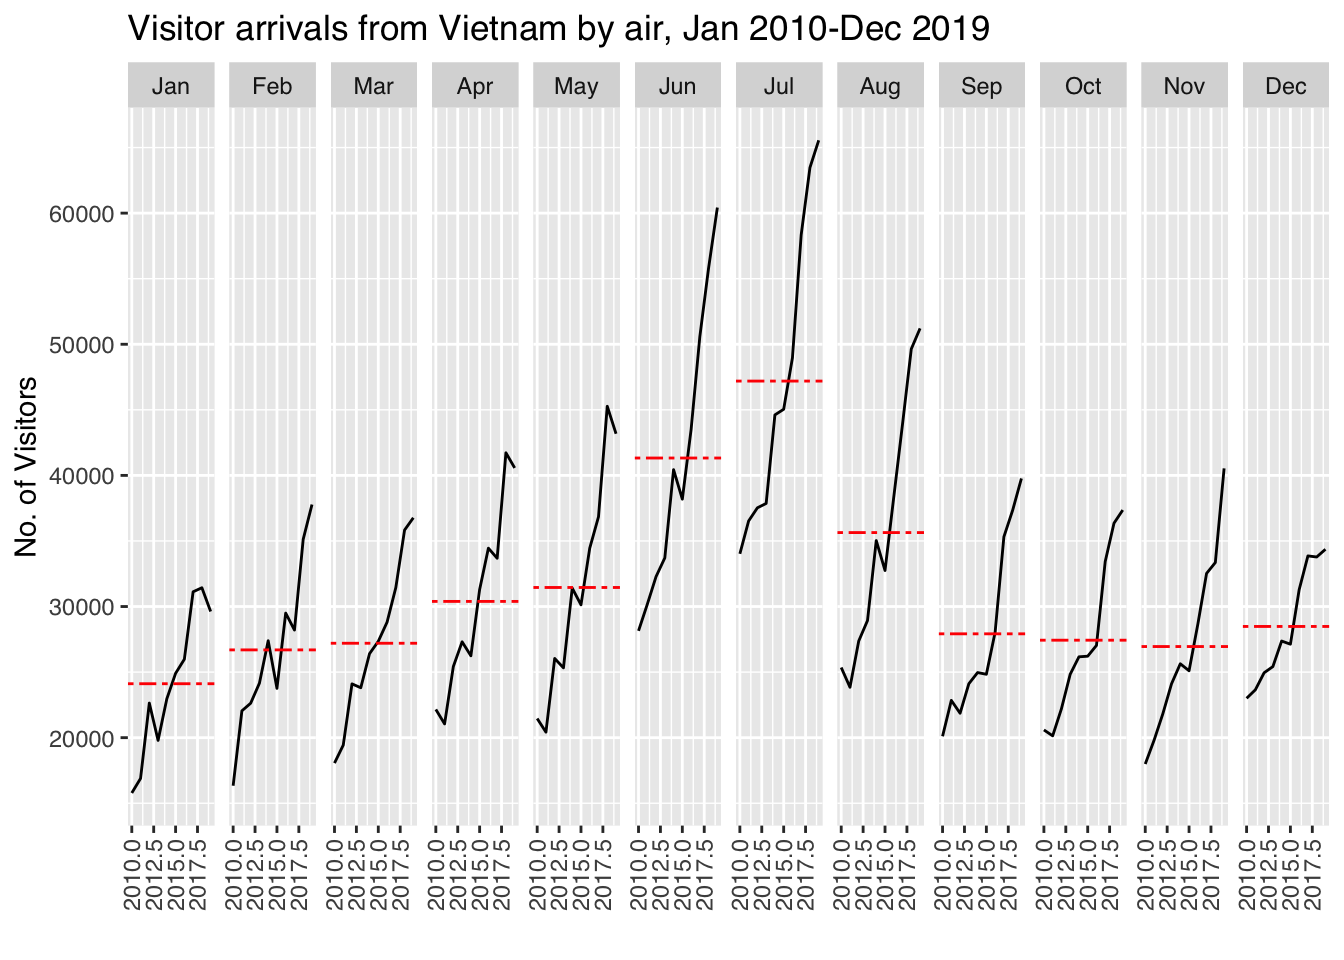
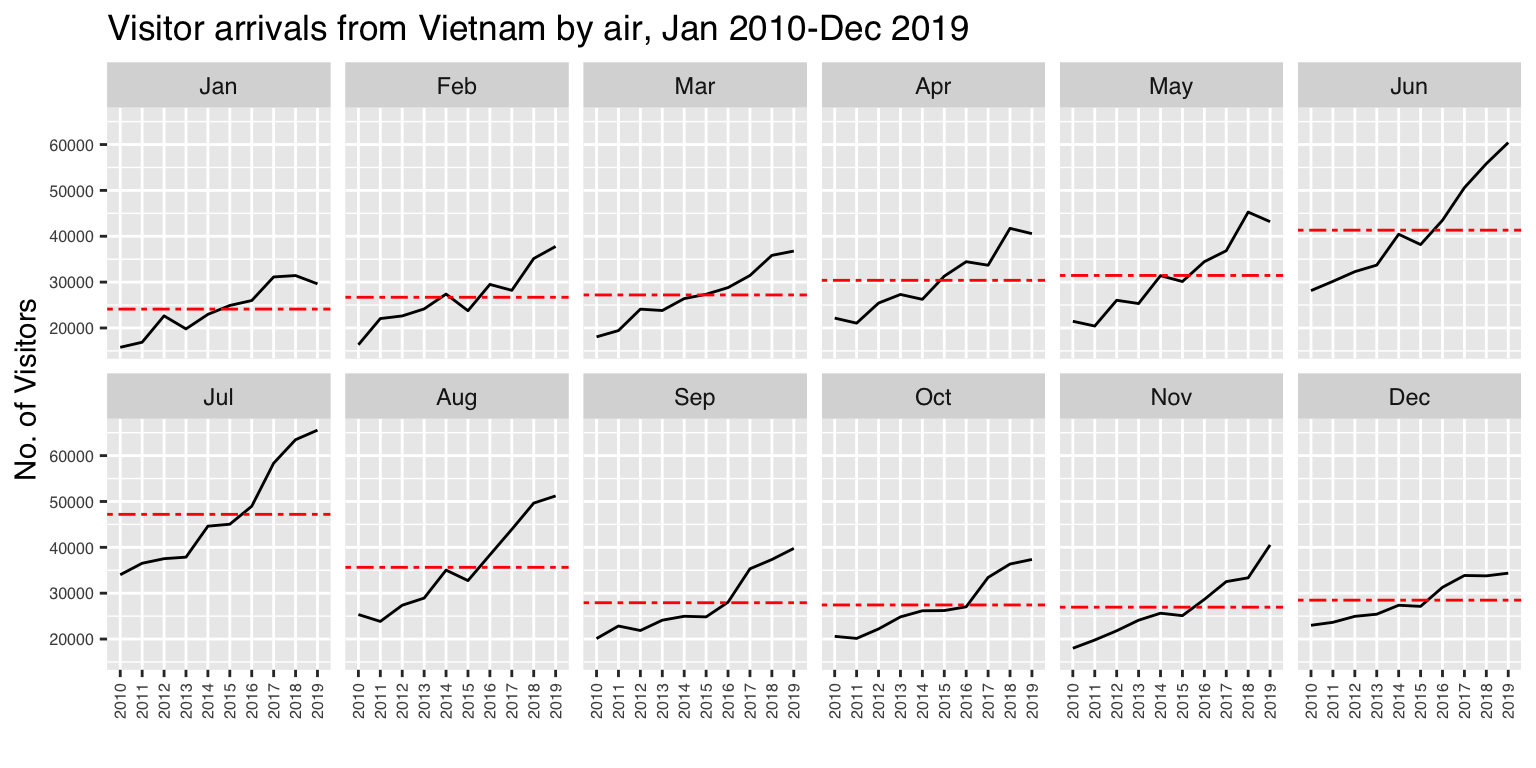
Commit after trying new dataset for HO_ex6

Changed region(s): [[0.0, 0.0, 1.0, 0.9688]]

diff --git a/_site/Hands-on_Ex/Hands-on_Ex06/hands-on_Ex06.html b/_site/Hands-on_Ex/Hands-on_Ex06/hands-on_Ex06.html
@@ -408,6 +408,7 @@ pre > code.sourceCode > span > a:first-child::before { text-decoration: underlin
   <li><a href="#step-1-data-import-1" id="toc-step-1-data-import-1" class="nav-link" data-scroll-target="#step-1-data-import-1"><span style="color:#d496d4">5.5.1</span> Step 1: Data Import</a></li>
   <li><a href="#step-2-plotting-the-slopegraph" id="toc-step-2-plotting-the-slopegraph" class="nav-link" data-scroll-target="#step-2-plotting-the-slopegraph"><span style="color:#d496d4">5.5.2</span> Step 2: Plotting the slopegraph</a></li>
   </ul></li>
+  <li><a href="#practice-2" id="toc-practice-2" class="nav-link" data-scroll-target="#practice-2">🎀 <span style="color:#d496d4">PRACTICE</span></a></li>
   </ul>
 </nav>
     </div>
@@ -440,7 +441,7 @@ pre > code.sourceCode > span > a:first-child::before { text-decoration: underlin
     <div>
     <div class="quarto-title-meta-heading">Modified</div>
     <div class="quarto-title-meta-contents">
-      <p class="date-modified">May 19, 2025</p>
+      <p class="date-modified">May 23, 2025</p>
     </div>
   </div>
     
@@ -686,18 +687,8 @@ Note
 </section>
 <section id="building-the-calendar-heatmaps" class="level3">
 <h3 class="anchored" data-anchor-id="building-the-calendar-heatmaps"><span style="color:#d496d4">5.3.4</span> Building the Calendar Heatmaps</h3>
-<div class="callout callout-style-default callout-note callout-titled">
-<div class="callout-header d-flex align-content-center">
-<div class="callout-icon-container">
-<i class="callout-icon"></i>
-</div>
-<div class="callout-title-container flex-fill">
-Note
-</div>
-</div>
-<div class="callout-body-container callout-body">
-<p>Using <code>size</code> aesthetic for lines was deprecated in ggplot2 3.4.0. So we will use use <code>linewidth</code> instead.</p>
-</div>
+<div class="nursebox nurse">
+<p><strong>NOTE:</strong> Using <code>size</code> aesthetic for lines was deprecated in ggplot2 3.4.0. So we will use use <code>linewidth</code> instead.</p>
 </div>
 <div class="cell">
 <div class="sourceCode cell-code" id="cb7"><pre class="sourceCode r code-with-copy"><code class="sourceCode r"><span id="cb7-1"><a href="#cb7-1" aria-hidden="true" tabindex="-1"></a>grouped <span class="ot">&lt;-</span> attacks <span class="sc">%&gt;%</span> </span>
@@ -746,7 +737,7 @@ Things to learn from the code chunk
 <li>a tibble data table called <em>grouped</em> is derived by aggregating the attack by <em>weekday</em> and <em>hour</em> fields.</li>
 <li>a new field called <em>n</em> is derived by using <code>group_by()</code> and <code>count()</code> functions.</li>
 <li><code>na.omit()</code> is used to exclude missing value.</li>
-<li><code>geom_tile()</code> is used to plot tiles (grids) at each x and y position. <code>color</code> and <code>size</code> arguments are used to specify the border color and line size of the tiles.</li>
+<li><code>geom_tile()</code> is used to plot tiles (grids) at each x and y position. <code>color</code> and <code>linewidth</code> arguments are used to specify the border color and line size of the tiles.</li>
 <li><a href="https://jrnold.github.io/ggthemes/reference/theme_tufte.html"><code>theme_tufte()</code></a> of <a href="https://jrnold.github.io/ggthemes/reference/index.html"><strong>ggthemes</strong></a> package is used to remove unnecessary chart junk. To learn which visual components of default ggplot2 have been excluded, you are encouraged to comment out this line to examine the default plot.</li>
 <li><code>coord_equal()</code> is used to ensure the plot will have an aspect ratio of 1:1.</li>
 <li><code>scale_fill_gradient()</code> function is used to creates a two colour gradient (low-high).</li>
@@ -824,7 +815,7 @@ Things to learn from the code chunk
 <section id="plotting-cycle-plot" class="level2">
 <h2 class="anchored" data-anchor-id="plotting-cycle-plot"><span style="color:#d496d4">5.4</span> Plotting Cycle Plot</h2>
 <p>In this section, you will learn how to plot a cycle plot showing the time-series patterns and trend of visitor arrivals from Vietnam programmatically by using ggplot2 functions.</p>
-<p><img src="img/image03.png" class="img-fluid"></p>
+<p><strong>EXAMPLE</strong> <img src="img/image03.png" class="img-fluid"></p>
 <section id="step-1-data-import" class="level3">
 <h3 class="anchored" data-anchor-id="step-1-data-import"><span style="color:#d496d4">5.4.1</span> Step 1: Data Import</h3>
 <p>For the purpose of this hands-on exercise, <em>arrivals_by_air.xlsx</em> will be used.</p>
@@ -1271,7 +1262,7 @@ Things to learn from the code chunk
 <div class="cell">
 <div class="sourceCode cell-code" id="cb15"><pre class="sourceCode r code-with-copy"><code class="sourceCode r"><span id="cb15-1"><a href="#cb15-1" aria-hidden="true" tabindex="-1"></a><span class="fu">ggplot</span>() <span class="sc">+</span> </span>
 <span id="cb15-2"><a href="#cb15-2" aria-hidden="true" tabindex="-1"></a>  <span class="fu">geom_line</span>(<span class="at">data=</span>Vietnam,</span>
-<span id="cb15-3"><a href="#cb15-3" aria-hidden="true" tabindex="-1"></a>            <span class="fu">aes</span>(<span class="at">x=</span>year, </span>
+<span id="cb15-3"><a href="#cb15-3" aria-hidden="true" tabindex="-1"></a>            <span class="fu">aes</span>(<span class="at">x =</span> <span class="fu">as.factor</span>(year), </span>
 <span id="cb15-4"><a href="#cb15-4" aria-hidden="true" tabindex="-1"></a>                <span class="at">y=</span><span class="st">`</span><span class="at">Vietnam</span><span class="st">`</span>, </span>
 <span id="cb15-5"><a href="#cb15-5" aria-hidden="true" tabindex="-1"></a>                <span class="at">group=</span>month), </span>
 <span id="cb15-6"><a href="#cb15-6" aria-hidden="true" tabindex="-1"></a>            <span class="at">colour=</span><span class="st">"black"</span>) <span class="sc">+</span></span>
@@ -1281,16 +1272,18 @@ Things to learn from the code chunk
 <span id="cb15-10"><a href="#cb15-10" aria-hidden="true" tabindex="-1"></a>             <span class="at">colour=</span><span class="st">"red"</span>, </span>
 <span id="cb15-11"><a href="#cb15-11" aria-hidden="true" tabindex="-1"></a>             <span class="at">linewidth=</span><span class="fl">0.5</span>) <span class="sc">+</span> </span>
 <span id="cb15-12"><a href="#cb15-12" aria-hidden="true" tabindex="-1"></a>  <span class="fu">facet_grid</span>(<span class="sc">~</span>month) <span class="sc">+</span></span>
-<span id="cb15-13"><a href="#cb15-13" aria-hidden="true" tabindex="-1"></a>  <span class="fu">labs</span>(<span class="at">axis.text.x =</span> <span class="fu">element_blank</span>(),</span>
-<span id="cb15-14"><a href="#cb15-14" aria-hidden="true" tabindex="-1"></a>       <span class="at">title =</span> <span class="st">"Visitor arrivals from Vietnam by air, Jan 2010-Dec 2019"</span>) <span class="sc">+</span></span>
-<span id="cb15-15"><a href="#cb15-15" aria-hidden="true" tabindex="-1"></a>  <span class="fu">xlab</span>(<span class="st">""</span>) <span class="sc">+</span></span>
-<span id="cb15-16"><a href="#cb15-16" aria-hidden="true" tabindex="-1"></a>  <span class="fu">ylab</span>(<span class="st">"No. of Visitors"</span>) <span class="sc">+</span></span>
-<span id="cb15-17"><a href="#cb15-17" aria-hidden="true" tabindex="-1"></a>  <span class="fu">theme_grey</span>(<span class="at">base_family =</span> <span class="st">"Helvetica"</span>) <span class="sc">+</span></span>
-<span id="cb15-18"><a href="#cb15-18" aria-hidden="true" tabindex="-1"></a>  <span class="fu">theme</span>(<span class="at">axis.text.x =</span> <span class="fu">element_text</span>(<span class="at">angle =</span> <span class="dv">90</span>, <span class="at">vjust =</span> <span class="fl">0.5</span>)) </span></code><button title="Copy to Clipboard" class="code-copy-button"><i class="bi"></i></button></pre></div>
+<span id="cb15-13"><a href="#cb15-13" aria-hidden="true" tabindex="-1"></a>  <span class="fu">facet_wrap</span>(<span class="sc">~</span>month, <span class="at">nrow =</span> <span class="dv">2</span>) <span class="sc">+</span></span>
+<span id="cb15-14"><a href="#cb15-14" aria-hidden="true" tabindex="-1"></a>  <span class="fu">labs</span>(<span class="at">axis.text.x =</span> <span class="fu">element_blank</span>(),</span>
+<span id="cb15-15"><a href="#cb15-15" aria-hidden="true" tabindex="-1"></a>       <span class="at">title =</span> <span class="st">"Visitor arrivals from Vietnam by air, Jan 2010-Dec 2019"</span>) <span class="sc">+</span></span>
+<span id="cb15-16"><a href="#cb15-16" aria-hidden="true" tabindex="-1"></a>  <span class="fu">xlab</span>(<span class="st">""</span>) <span class="sc">+</span></span>
+<span id="cb15-17"><a href="#cb15-17" aria-hidden="true" tabindex="-1"></a>  <span class="fu">ylab</span>(<span class="st">"No. of Visitors"</span>) <span class="sc">+</span></span>
+<span id="cb15-18"><a href="#cb15-18" aria-hidden="true" tabindex="-1"></a>  <span class="fu">theme_grey</span>(<span class="at">base_family =</span> <span class="st">"Helvetica"</span>) <span class="sc">+</span></span>
+<span id="cb15-19"><a href="#cb15-19" aria-hidden="true" tabindex="-1"></a>  <span class="fu">theme</span>(<span class="at">axis.text.x =</span> <span class="fu">element_text</span>(<span class="at">hjust =</span> <span class="dv">1</span>, <span class="at">angle =</span> <span class="dv">90</span>, <span class="at">vjust =</span> <span class="fl">0.5</span>, <span class="at">size =</span> <span class="dv">6</span>),</span>
+<span id="cb15-20"><a href="#cb15-20" aria-hidden="true" tabindex="-1"></a>        <span class="at">axis.text.y =</span> <span class="fu">element_text</span>(<span class="at">size =</span> <span class="dv">6</span>),) </span></code><button title="Copy to Clipboard" class="code-copy-button"><i class="bi"></i></button></pre></div>
 <div class="cell-output-display">
 <div>
 <figure class="figure">
-<p><img src="hands-on_Ex06_files/figure-html/unnamed-chunk-18-1.png" class="img-fluid figure-img" width="672"></p>
+<p><img src="hands-on_Ex06_files/figure-html/unnamed-chunk-18-1.png" class="img-fluid figure-img" width="768"></p>
 </figure>
 </div>
 </div>
@@ -1403,8 +1396,8 @@ Things to learn from the code chunk
 <span id="cb18-2"><a href="#cb18-2" aria-hidden="true" tabindex="-1"></a>  <span class="fu">mutate</span>(<span class="at">Year =</span> <span class="fu">factor</span>(Year)) <span class="sc">%&gt;%</span></span>
 <span id="cb18-3"><a href="#cb18-3" aria-hidden="true" tabindex="-1"></a>  <span class="fu">filter</span>(Year <span class="sc">%in%</span> <span class="fu">c</span>(<span class="dv">1961</span>, <span class="dv">1980</span>)) <span class="sc">%&gt;%</span></span>
 <span id="cb18-4"><a href="#cb18-4" aria-hidden="true" tabindex="-1"></a>  <span class="fu">newggslopegraph</span>(Year, Yield, Country,</span>
-<span id="cb18-5"><a href="#cb18-5" aria-hidden="true" tabindex="-1"></a>                <span class="at">Title =</span> <span class="st">"Rice Yield of Top 11 Asian Counties"</span>,</span>
-<span id="cb18-6"><a href="#cb18-6" aria-hidden="true" tabindex="-1"></a>                <span class="at">SubTitle =</span> <span class="st">"1961-1980"</span>,</span>
+<span id="cb18-5"><a href="#cb18-5" aria-hidden="true" tabindex="-1"></a>                <span class="at">Title =</span> <span class="st">"Rice Yield of Top 11 Asian Countries"</span>,</span>
+<span id="cb18-6"><a href="#cb18-6" aria-hidden="true" tabindex="-1"></a>                <span class="at">SubTitle =</span> <span class="st">"From 1961 to 1980 (kg/ha)"</span>,</span>
 <span id="cb18-7"><a href="#cb18-7" aria-hidden="true" tabindex="-1"></a>                <span class="at">Caption =</span> <span class="st">"Prepared by: Vanessa Riadi"</span>)</span></code><button title="Copy to Clipboard" class="code-copy-button"><i class="bi"></i></button></pre></div>
 <div class="cell-output-display">
 <div>
@@ -1448,9 +1441,211 @@ Thing to learn from the code chunk above
 </div>
 </div>
 </div>
-
-
 </section>
+</section>
+<section id="practice-2" class="level2">
+<h2 class="anchored" data-anchor-id="practice-2">🎀 <span style="color:#d496d4">PRACTICE</span></h2>
+<p>Let’s practice using the additional dataset!</p>
+<div class="cell">
+<div class="sourceCode cell-code" id="cb20"><pre class="sourceCode r code-with-copy"><code class="sourceCode r"><span id="cb20-1"><a href="#cb20-1" aria-hidden="true" tabindex="-1"></a>averp <span class="ot">&lt;-</span> <span class="fu">read_csv</span>(<span class="st">"../data/AVERP.csv"</span>)</span></code><button title="Copy to Clipboard" class="code-copy-button"><i class="bi"></i></button></pre></div>
+</div>
+<div class="cell">
+<div class="cell-output-display">
+<table class="caption-top table table-sm table-striped small">
+<thead>
+<tr class="header">
+<th style="text-align: left;">Date</th>
+<th style="text-align: left;">Consumer Items</th>
+<th style="text-align: right;">Values</th>
+</tr>
+</thead>
+<tbody>
+<tr class="odd">
+<td style="text-align: left;">1/1/2014</td>
+<td style="text-align: left;">Wholemeal Bread (Per 400 Gram)</td>
+<td style="text-align: right;">2.05</td>
+</tr>
+<tr class="even">
+<td style="text-align: left;">1/2/2014</td>
+<td style="text-align: left;">Wholemeal Bread (Per 400 Gram)</td>
+<td style="text-align: right;">2.05</td>
+</tr>
+<tr class="odd">
+<td style="text-align: left;">1/3/2014</td>
+<td style="text-align: left;">Wholemeal Bread (Per 400 Gram)</td>
+<td style="text-align: right;">2.04</td>
+</tr>
+<tr class="even">
+<td style="text-align: left;">1/4/2014</td>
+<td style="text-align: left;">Wholemeal Bread (Per 400 Gram)</td>
+<td style="text-align: right;">2.04</td>
+</tr>
+<tr class="odd">
+<td style="text-align: left;">1/5/2014</td>
+<td style="text-align: left;">Wholemeal Bread (Per 400 Gram)</td>
+<td style="text-align: right;">2.05</td>
+</tr>
+<tr class="even">
+<td style="text-align: left;">1/6/2014</td>
+<td style="text-align: left;">Wholemeal Bread (Per 400 Gram)</td>
+<td style="text-align: right;">2.05</td>
+</tr>
+</tbody>
+</table>
+</div>
+</div>
+<div class="cell">
+<div class="sourceCode cell-code" id="cb21"><pre class="sourceCode r code-with-copy"><code class="sourceCode r"><span id="cb21-1"><a href="#cb21-1" aria-hidden="true" tabindex="-1"></a>averp<span class="sc">$</span>month <span class="ot">&lt;-</span> <span class="fu">factor</span>(<span class="fu">month</span>(averp<span class="sc">$</span><span class="st">`</span><span class="at">Date</span><span class="st">`</span>), </span>
+<span id="cb21-2"><a href="#cb21-2" aria-hidden="true" tabindex="-1"></a>                    <span class="at">levels=</span><span class="dv">1</span><span class="sc">:</span><span class="dv">12</span>, </span>
+<span id="cb21-3"><a href="#cb21-3" aria-hidden="true" tabindex="-1"></a>                    <span class="at">labels=</span>month.abb, </span>
+<span id="cb21-4"><a href="#cb21-4" aria-hidden="true" tabindex="-1"></a>                    <span class="at">ordered=</span><span class="cn">TRUE</span>) </span>
+<span id="cb21-5"><a href="#cb21-5" aria-hidden="true" tabindex="-1"></a>averp<span class="sc">$</span>year <span class="ot">&lt;-</span> <span class="fu">year</span>(<span class="fu">dmy</span>(averp<span class="sc">$</span><span class="st">`</span><span class="at">Date</span><span class="st">`</span>))</span></code><button title="Copy to Clipboard" class="code-copy-button"><i class="bi"></i></button></pre></div>
+</div>
+<p>Let’s check out white bread price across the months and year!</p>
+<div class="cell">
+<div class="sourceCode cell-code" id="cb22"><pre class="sourceCode r code-with-copy"><code class="sourceCode r"><span id="cb22-1"><a href="#cb22-1" aria-hidden="true" tabindex="-1"></a>whiteBread <span class="ot">&lt;-</span> averp <span class="sc">%&gt;%</span> </span>
+<span id="cb22-2"><a href="#cb22-2" aria-hidden="true" tabindex="-1"></a>  <span class="fu">select</span>(year, </span>
+<span id="cb22-3"><a href="#cb22-3" aria-hidden="true" tabindex="-1"></a>         month,</span>
+<span id="cb22-4"><a href="#cb22-4" aria-hidden="true" tabindex="-1"></a>         <span class="st">`</span><span class="at">Consumer Items</span><span class="st">`</span>,</span>
+<span id="cb22-5"><a href="#cb22-5" aria-hidden="true" tabindex="-1"></a>         Values) <span class="sc">%&gt;%</span></span>
+<span id="cb22-6"><a href="#cb22-6" aria-hidden="true" tabindex="-1"></a>  <span class="fu">filter</span>(<span class="st">`</span><span class="at">Consumer Items</span><span class="st">`</span> <span class="sc">==</span> <span class="st">"Ordinary White Bread (Per 400 Gram)"</span>)</span></code><button title="Copy to Clipboard" class="code-copy-button"><i class="bi"></i></button></pre></div>
+</div>
+<div class="cell">
+<div class="sourceCode cell-code" id="cb23"><pre class="sourceCode r code-with-copy"><code class="sourceCode r"><span id="cb23-1"><a href="#cb23-1" aria-hidden="true" tabindex="-1"></a><span class="fu">kable</span>(<span class="fu">head</span>(whiteBread))</span></code><button title="Copy to Clipboard" class="code-copy-button"><i class="bi"></i></button></pre></div>
+<div class="cell-output-display">
+<table class="caption-top table table-sm table-striped small">
+<thead>
+<tr class="header">
+<th style="text-align: right;">year</th>
+<th style="text-align: left;">month</th>
+<th style="text-align: left;">Consumer Items</th>
+<th style="text-align: right;">Values</th>
+</tr>
+</thead>
+<tbody>
+<tr class="odd">
+<td style="text-align: right;">2014</td>
+<td style="text-align: left;">Jan</td>
+<td style="text-align: left;">Ordinary White Bread (Per 400 Gram)</td>
+<td style="text-align: right;">1.56</td>
+</tr>
+<tr class="even">
+<td style="text-align: right;">2014</td>
+<td style="text-align: left;">Feb</td>
+<td style="text-align: left;">Ordinary White Bread (Per 400 Gram)</td>
+<td style="text-align: right;">1.56</td>
+</tr>
+<tr class="odd">
+<td style="text-align: right;">2014</td>
+<td style="text-align: left;">Mar</td>
+<td style="text-align: left;">Ordinary White Bread (Per 400 Gram)</td>
+<td style="text-align: right;">1.57</td>
+</tr>
+<tr class="even">
+<td style="text-align: right;">2014</td>
+<td style="text-align: left;">Apr</td>
+<td style="text-align: left;">Ordinary White Bread (Per 400 Gram)</td>
+<td style="text-align: right;">1.57</td>
+</tr>
+<tr class="odd">
+<td style="text-align: right;">2014</td>
+<td style="text-align: left;">May</td>
+<td style="text-align: left;">Ordinary White Bread (Per 400 Gram)</td>
+<td style="text-align: right;">1.57</td>
+</tr>
+<tr class="even">
+<td style="text-align: right;">2014</td>
+<td style="text-align: left;">Jun</td>
+<td style="text-align: left;">Ordinary White Bread (Per 400 Gram)</td>
+<td style="text-align: right;">1.57</td>
+</tr>
+</tbody>
+</table>
+</div>
+</div>
+<div class="cell">
+<div class="sourceCode cell-code" id="cb24"><pre class="sourceCode r code-with-copy"><code class="sourceCode r"><span id="cb24-1"><a href="#cb24-1" aria-hidden="true" tabindex="-1"></a>avgline.data <span class="ot">&lt;-</span> whiteBread <span class="sc">%&gt;%</span> </span>
+<span id="cb24-2"><a href="#cb24-2" aria-hidden="true" tabindex="-1"></a>  <span class="fu">group_by</span>(month) <span class="sc">%&gt;%</span></span>
+<span id="cb24-3"><a href="#cb24-3" aria-hidden="true" tabindex="-1"></a>  <span class="fu">summarise</span>(<span class="at">avgvalue =</span> <span class="fu">mean</span>(Values, <span class="at">na.rm =</span> <span class="cn">TRUE</span>))</span></code><button title="Copy to Clipboard" class="code-copy-button"><i class="bi"></i></button></pre></div>
+</div>
+<div class="cell">
+<div class="sourceCode cell-code" id="cb25"><pre class="sourceCode r code-with-copy"><code class="sourceCode r"><span id="cb25-1"><a href="#cb25-1" aria-hidden="true" tabindex="-1"></a><span class="fu">kable</span>(<span class="fu">head</span>(avgline.data))</span></code><button title="Copy to Clipboard" class="code-copy-button"><i class="bi"></i></button></pre></div>
+<div class="cell-output-display">
+<table class="caption-top table table-sm table-striped small">
+<thead>
+<tr class="header">
+<th style="text-align: left;">month</th>
+<th style="text-align: right;">avgvalue</th>
+</tr>
+</thead>
+<tbody>
+<tr class="odd">
+<td style="text-align: left;">Jan</td>
+<td style="text-align: right;">1.667778</td>
+</tr>
+<tr class="even">
+<td style="text-align: left;">Feb</td>
+<td style="text-align: right;">1.670000</td>
+</tr>
+<tr class="odd">
+<td style="text-align: left;">Mar</td>
+<td style="text-align: right;">1.671111</td>
+</tr>
+<tr class="even">
+<td style="text-align: left;">Apr</td>
+<td style="text-align: right;">1.680000</td>
+</tr>
+<tr class="odd">
+<td style="text-align: left;">May</td>
+<td style="text-align: right;">1.684444</td>
+</tr>
+<tr class="even">
+<td style="text-align: left;">Jun</td>
+<td style="text-align: right;">1.690000</td>
+</tr>
+</tbody>
+</table>
+</div>
+</div>
+<div class="cell">
+<div class="sourceCode cell-code" id="cb26"><pre class="sourceCode r code-with-copy"><code class="sourceCode r"><span id="cb26-1"><a href="#cb26-1" aria-hidden="true" tabindex="-1"></a><span class="fu">ggplot</span>() <span class="sc">+</span> </span>
+<span id="cb26-2"><a href="#cb26-2" aria-hidden="true" tabindex="-1"></a>  <span class="fu">geom_line</span>(<span class="at">data=</span>whiteBread,</span>
+<span id="cb26-3"><a href="#cb26-3" aria-hidden="true" tabindex="-1"></a>            <span class="fu">aes</span>(<span class="at">x =</span> <span class="fu">as.factor</span>(year), </span>
+<span id="cb26-4"><a href="#cb26-4" aria-hidden="true" tabindex="-1"></a>                <span class="at">y=</span>Values, </span>
+<span id="cb26-5"><a href="#cb26-5" aria-hidden="true" tabindex="-1"></a>                <span class="at">group=</span>month), </span>
+<span id="cb26-6"><a href="#cb26-6" aria-hidden="true" tabindex="-1"></a>            <span class="at">colour=</span><span class="st">"black"</span>) <span class="sc">+</span></span>
+<span id="cb26-7"><a href="#cb26-7" aria-hidden="true" tabindex="-1"></a>  <span class="fu">geom_hline</span>(<span class="fu">aes</span>(<span class="at">yintercept=</span>avgvalue), </span>
+<span id="cb26-8"><a href="#cb26-8" aria-hidden="true" tabindex="-1"></a>             <span class="at">data=</span>avgline.data, </span>
+<span id="cb26-9"><a href="#cb26-9" aria-hidden="true" tabindex="-1"></a>             <span class="at">linetype=</span><span class="dv">6</span>, </span>
+<span id="cb26-10"><a href="#cb26-10" aria-hidden="true" tabindex="-1"></a>             <span class="at">colour=</span><span class="st">"red"</span>, </span>
+<span id="cb26-11"><a href="#cb26-11" aria-hidden="true" tabindex="-1"></a>             <span class="at">linewidth=</span><span class="fl">0.5</span>) <span class="sc">+</span> </span>
+<span id="cb26-12"><a href="#cb26-12" aria-hidden="true" tabindex="-1"></a>  <span class="fu">facet_grid</span>(<span class="sc">~</span>month) <span class="sc">+</span></span>
+<span id="cb26-13"><a href="#cb26-13" aria-hidden="true" tabindex="-1"></a>  <span class="fu">facet_wrap</span>(<span class="sc">~</span>month, <span class="at">nrow =</span> <span class="dv">2</span>) <span class="sc">+</span></span>
+<span id="cb26-14"><a href="#cb26-14" aria-hidden="true" tabindex="-1"></a>  <span class="fu">labs</span>(<span class="at">axis.text.x =</span> <span class="fu">element_blank</span>(),</span>
+<span id="cb26-15"><a href="#cb26-15" aria-hidden="true" tabindex="-1"></a>       <span class="at">title =</span> <span class="st">"Value of Ordinary White Bread, Jan 2014-Dec 2022"</span>,</span>
+<span id="cb26-16"><a href="#cb26-16" aria-hidden="true" tabindex="-1"></a>       <span class="at">subtitle =</span> <span class="st">"(Per 400 Gram)"</span>) <span class="sc">+</span></span>
+<span id="cb26-17"><a href="#cb26-17" aria-hidden="true" tabindex="-1"></a>  <span class="fu">xlab</span>(<span class="st">""</span>) <span class="sc">+</span></span>
+<span id="cb26-18"><a href="#cb26-18" aria-hidden="true" tabindex="-1"></a>  <span class="fu">ylab</span>(<span class="st">"Value"</span>) <span class="sc">+</span></span>
+<span id="cb26-19"><a href="#cb26-19" aria-hidden="true" tabindex="-1"></a>  <span class="fu">theme_grey</span>(<span class="at">base_family =</span> <span class="st">"Helvetica"</span>) <span class="sc">+</span></span>
+<span id="cb26-20"><a href="#cb26-20" aria-hidden="true" tabindex="-1"></a>  <span class="fu">theme</span>(<span class="at">axis.text.x =</span> <span class="fu">element_text</span>(<span class="at">hjust =</span> <span class="dv">1</span>, <span class="at">angle =</span> <span class="dv">90</span>, <span class="at">vjust =</span> <span class="fl">0.5</span>, <span class="at">size =</span> <span class="dv">6</span>),</span>
+<span id="cb26-21"><a href="#cb26-21" aria-hidden="true" tabindex="-1"></a>        <span class="at">axis.text.y =</span> <span class="fu">element_text</span>(<span class="at">size =</span> <span class="dv">6</span>)) </span></code><button title="Copy to Clipboard" class="code-copy-button"><i class="bi"></i></button></pre></div>
+<div class="cell-output-display">
+<div>
+<figure class="figure">
+<p><img src="hands-on_Ex06_files/figure-html/unnamed-chunk-31-1.png" class="img-fluid figure-img" width="768"></p>
+</figure>
+</div>
+</div>
+</div>
+<div class="nursebox nurse">
+<p><strong>DID YOU KNOW?</strong></p>
+<p>Inflation can be seen through value of bread! 😱 <a href="https://finsbury-associates.com/what-inflation-does-with-bread-price/">read more</a></p>
+<p>Current situation:</p>
+<p>Singapore Retail Prices: Ordinary White Bread (Per 400 Gram) data was reported at 2.230 SGD/400 g in Dec 2024. <a href="https://www.ceicdata.com/en/singapore/average-retail-prices-2019100/retail-prices-ordinary-white-bread-per-400-gram">source</a></p>
+<p>Just checked FairPrice site and it’s ranged from $2.05 (house brand) to $3.20!!</p>
+</div>
+
+
 </section>
 
 </main> <!-- /main -->
